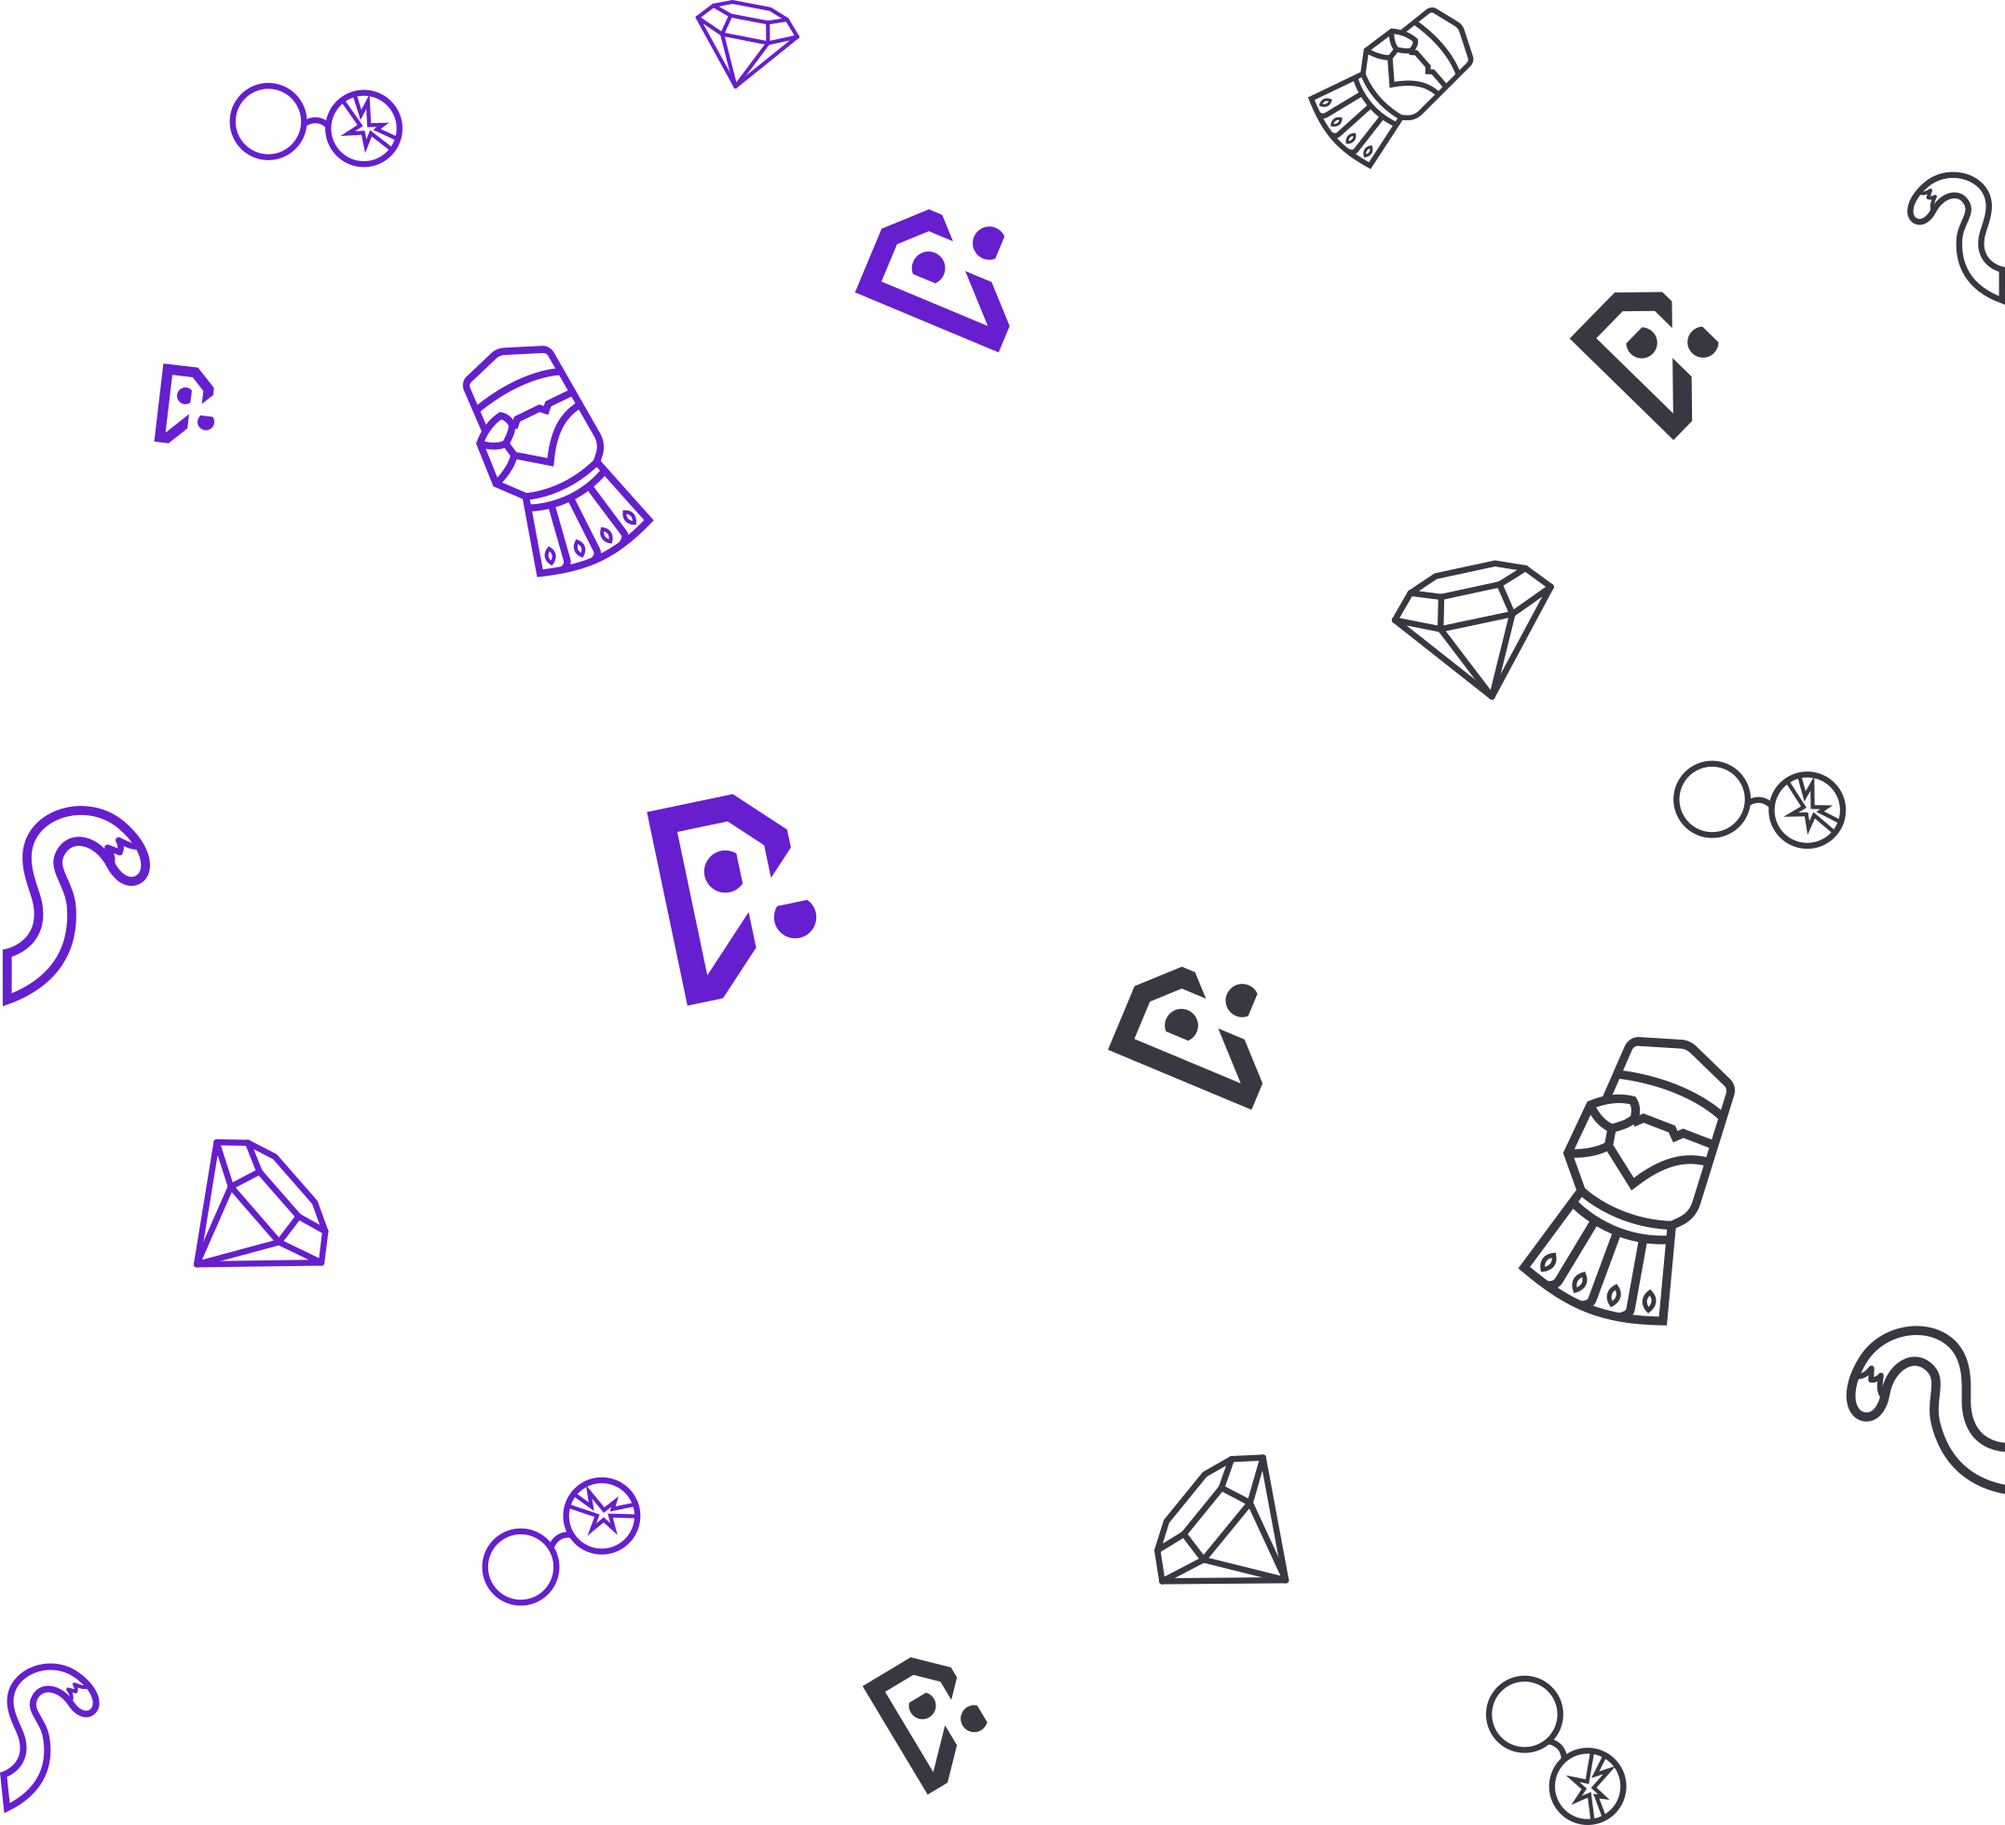
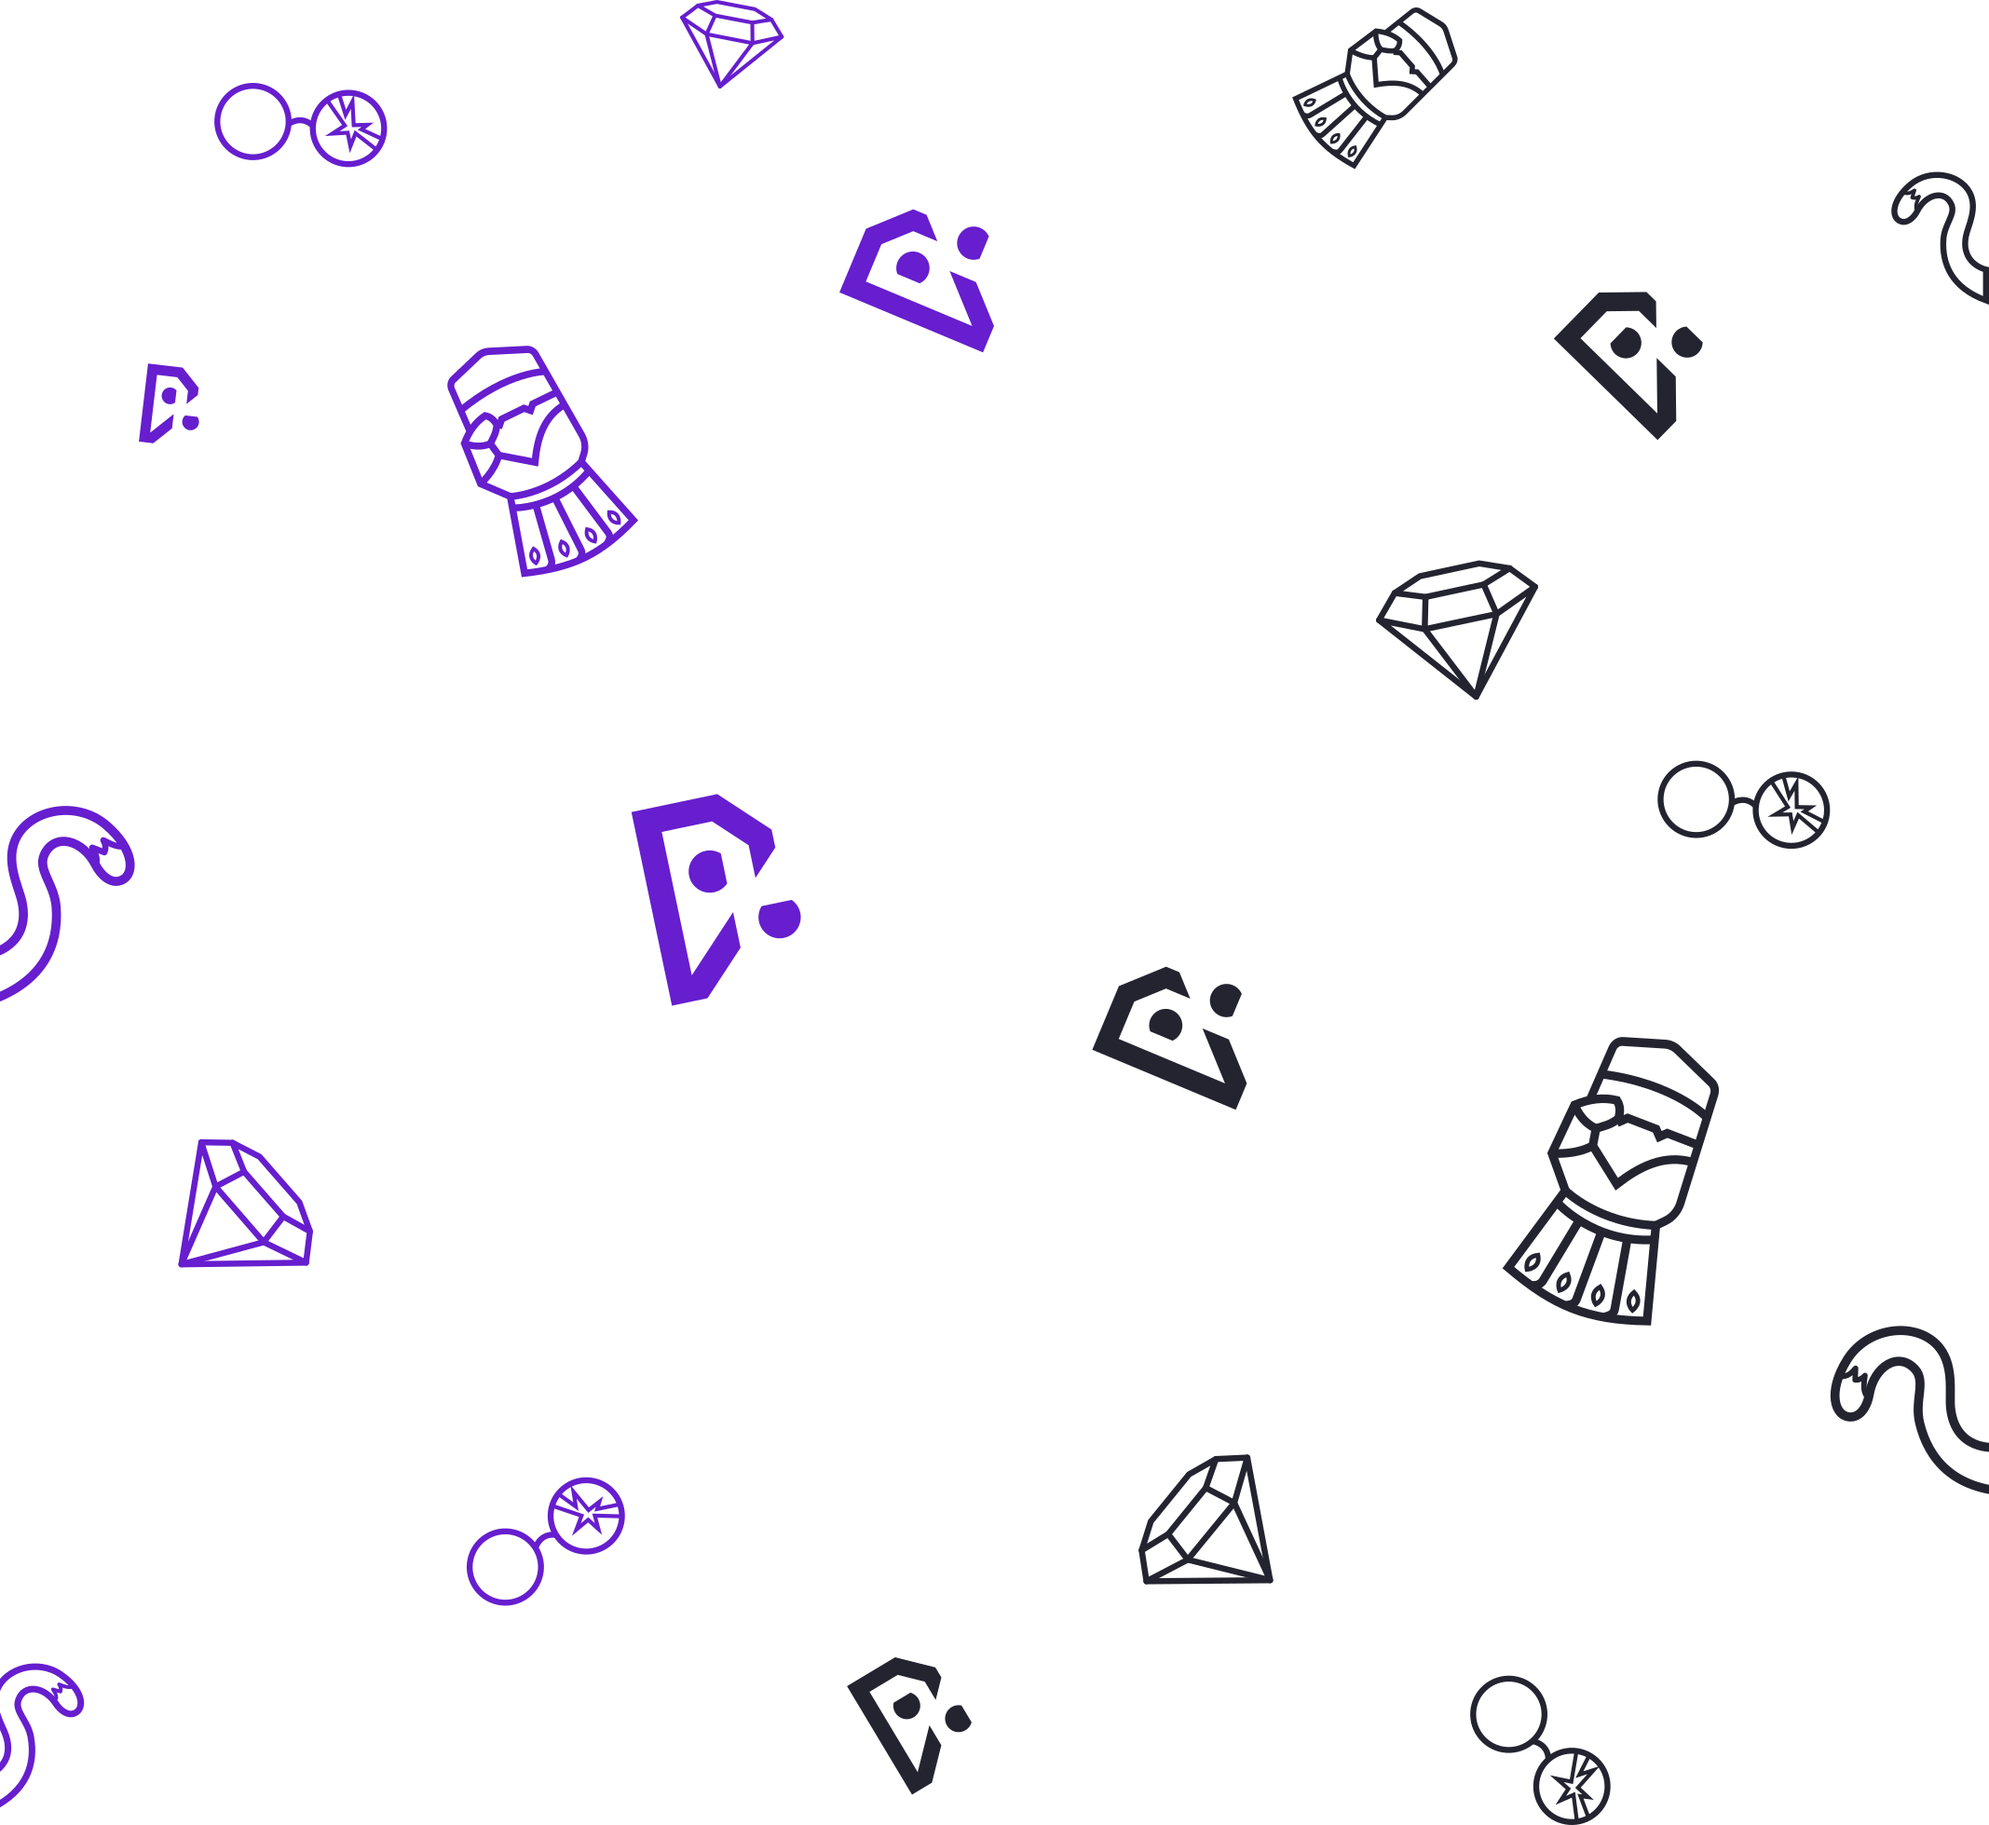
bg update

diff --git a/styles/globals.css b/styles/globals.css
@@ -40,12 +40,12 @@ a {
 }
 
 .customGradientVioletRight {
-  background: url('https://deez-games.github.io/DeezWebsite/WebDesign.png') top fixed no-repeat, linear-gradient(135deg, rgba(36,36,49,1) 56%, rgba(71,0,223,1) 56%);
+  background: url('https://deez-games.github.io/DeezWebsite/WebDesign.png') top fixed no-repeat, linear-gradient(135deg, rgba(36,36,49,1) 56%, rgba(102,30,206,1) 56%);
   background-size: cover;
 }
 
 .customGradientVioletLeft {
-  background: url('https://deez-games.github.io/DeezWebsite/WebDesignReversed.png') top fixed no-repeat, linear-gradient(135deg, rgba(71,0,223,1) 44%, rgba(36,36,49,1) 44%);
+  background: url('https://deez-games.github.io/DeezWebsite/WebDesignReversed.png') top fixed no-repeat, linear-gradient(135deg, rgba(102,30,206,1) 44%, rgba(36,36,49,1) 44%);
   background-size: cover;
 }
 

diff --git a/tailwind.config.js b/tailwind.config.js
@@ -20,20 +20,9 @@ module.exports = {
         textGrey: "#B4B4B4",
         textDarkGrey: "#414462",
         textHover: "#c8cad2",
-        violet: "#4700DF",
+        violet: "#661ece",
         darkBg: "#242431",
         brightBg: "#DFE1F3",
-
-        // 'text': '#ffffff',
-        // 'background': '#16213E',
-        // 'primary-button': '#3f82ee',
-        // 'secondary-button': '#b9d1f9',
-        // 'accent': '#3f82ee',
-        //         'text': '#ffffff',
-        // 'background': '#1f1d36',
-        // 'primary-button': '#58d55a',
-        // 'secondary-button': '#f2cbca',
-        // 'accent': '#5a58d5',
       },
       backgroundImage: {
         "gradient-radial": "radial-gradient(var(--tw-gradient-stops))",
